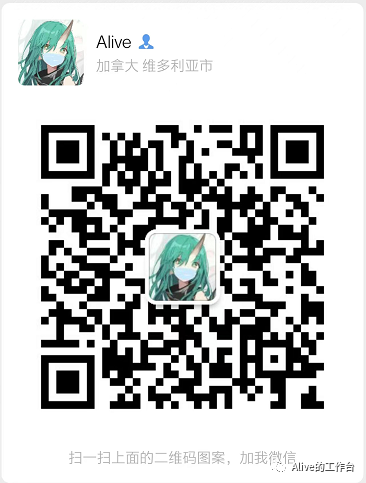
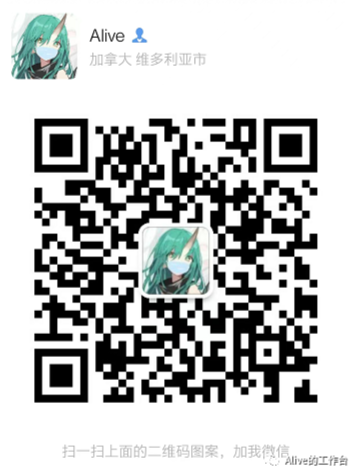
Update

diff --git a/app.vue b/app.vue
@@ -5,18 +5,49 @@
       <h3 class="font-bold text-lg">联系我</h3>
       <div class="max-w-5xl mx-auto">
         <p class="py-4">
-          You've been selected for a chance to get one year of subscription to
-          use Wikipedia for free!
+          <!-- You've been selected for a chance to get one year of subscription to
+          use Wikipedia for free! -->
         </p>
         <div class="flex flex-wrap max-w-5xl mx-auto">
           <div>
-            <img class="scale-75" src="~/assets/image/QR-Alive.png" alt="Alive的微信" />
+            <img class="scale-75 w-96 lg:w-64 " src="~/assets/image/QR-Alive.png" alt="Alive的微信" />
             <p class="text-center">Alive的微信</p>
           </div>
           <div>
-            <img class="scale-75" src="~/assets/image/QR-订阅号.jpg" alt="Alive的工作台" />
+            <img class="scale-75 w-96 lg:w-64" src="~/assets/image/QR-订阅号.jpg" alt="Alive的工作台" />
             <p class="text-center">公众号：Alive的工作台</p>
           </div>
+          <div>
+            <img class="scale-75 w-96 lg:w-64" src="~/assets/image/QR-Whatsapp.jpg" alt="Alive的工作台" />
+            <p class="text-center">公众号：Alive的工作台</p>
+          </div>
+          <div>
+            <img class="scale-75 w-96 lg:w-64" src="~/assets/image/QR-QQ.jpg" alt="Alive的工作台" />
+            <p class="text-center">公众号：Alive的工作台</p>
+          </div>
+        </div>
+        <div class="flex flex-wrap max-w-5xl mx-auto justify-center gap-10 my-10">
+          <!-- Outlook -->
+          <svg xmlns="http://www.w3.org/2000/svg" width="64" height="64" data-name="microsoft outlook" viewBox="0 0 64 64"><path fill="#0364b8" d="M57.191 3.999h-34.389a2.808 2.808 0 0 0 -2.803 2.808v3.192l19.38 6 20.62 -6V6.807a2.808 2.808 0 0 0 -2.808 -2.808Z" data-name="Path 94"/><path fill="#0a2767" d="M63.3 34.81a22.683 22.683 0 0 0 0.7 -2.809 1.332 1.332 0 0 0 -0.666 -1.152l-0.026 -0.016h-0.008l-21.676 -12.348a3.006 3.006 0 0 0 -3.249 0l-21.675 12.345h-0.008l-0.024 0.014a1.332 1.332 0 0 0 -0.667 1.156 22.689 22.689 0 0 0 0.7 2.809l22.984 16.811Z" data-name="Path 95"/><path fill="#28a8ea" d="M47.993 10H33.999l-4.041 6 4.041 6 13.994 11.998h12v-12Z" data-name="Path 96"/><path fill="#0078d4" d="M20 10h13.999v12h-13.999Z" data-name="Path 97"/><path fill="#50d9ff" d="M48 10h12v12h-12Z" data-name="Path 98"/><path fill="#0364b8" d="m48 33.999 -14.001 -12h-13.999v12l13.999 12 21.662 3.536Z" data-name="Path 99"/><path fill="none" d="M20.062 10h39.94" data-name="Path 100"/><path fill="#0078d4" d="M33.999 21.999h13.999v12h-13.999Z" data-name="Path 101"/><path fill="#064a8c" d="M20 33.999h13.999v12h-13.999Z" data-name="Path 102"/><path fill="#0078d4" d="M48 33.999h12v12h-12Z" data-name="Path 103"/><path fill="#0a2767" d="M40.38 50.435 16.798 33.235l0.99 -1.74L39.601 43.92a1.056 1.056 0 0 0 0.839 -0.024l21.865 -12.456 0.992 1.732Z" data-name="Path 104" opacity=".5"/><path fill="#1490df" d="m63.334 33.153 -0.028 0.016 -21.676 12.348a2.993 2.993 0 0 1 -2.92 0.181l7.543 10.13 16.508 3.591v0.008a2.996 2.996 0 0 0 1.24 -2.428V31.999a1.332 1.332 0 0 1 -0.666 1.154Z" data-name="Path 105"/><path d="M64 57v-1.476l-19.966 -11.373 -2.41 1.374a2.993 2.993 0 0 1 -2.92 0.181l7.548 10.119 16.508 3.593v0.008a2.996 2.996 0 0 0 1.24 -2.428Z" data-name="Path 106" opacity=".05"/><path d="m63.9 57.765 -21.882 -12.465 -0.39 0.219a2.993 2.993 0 0 1 -2.92 0.184l7.548 10.122 16.504 3.595v0.008a3.002 3.002 0 0 0 1.14 -1.66Z" data-name="Path 107" opacity=".1"/><path fill="#28a8ea" d="M16.7 33.18v-0.02h-0.023l-0.06 -0.041a1.3 1.3 0 0 1 -0.617 -1.12V56.999a2.996 2.996 0 0 0 3 3h41.999a3.006 3.006 0 0 0 0.741 -0.1 1.274 1.274 0 0 0 0.36 -0.12 0.284 0.284 0 0 0 0.12 -0.041 2.096 2.096 0 0 0 0.46 -0.26c0.041 -0.02 0.06 -0.02 0.08 -0.06Z" data-name="Path 108"/><path d="M36 49.336V16.665a2.674 2.674 0 0 0 -2.67 -2.666h-13.268v14.912l-3.362 1.916h-0.009l-0.024 0.014a1.332 1.332 0 0 0 -0.666 1.159v20h17.33a2.674 2.674 0 0 0 2.67 -2.663Z" data-name="Path 109" opacity=".1"/><path d="M34 51.337V18.666a2.674 2.674 0 0 0 -2.666 -2.666h-11.273v12.912l-3.362 1.916h-0.009l-0.024 0.014a1.332 1.332 0 0 0 -0.666 1.159v21.999h15.334a2.674 2.674 0 0 0 2.666 -2.663Z" data-name="Path 110" opacity=".2"/><path d="M34 47.334V18.666a2.674 2.674 0 0 0 -2.666 -2.666h-11.273v12.912l-3.362 1.916h-0.009l-0.024 0.014a1.332 1.332 0 0 0 -0.666 1.159V49.999h15.334a2.674 2.674 0 0 0 2.666 -2.666Z" data-name="Path 111" opacity=".2"/><path d="M32.001 47.334V18.666a2.674 2.674 0 0 0 -2.666 -2.666h-9.273v12.912l-3.362 1.916h-0.009l-0.024 0.014a1.332 1.332 0 0 0 -0.666 1.159V49.999h13.335a2.674 2.674 0 0 0 2.666 -2.666Z" data-name="Path 112" opacity=".2"/><path fill="#0078d4" d="M2.666 16h26.672a2.666 2.666 0 0 1 2.666 2.666v26.672a2.666 2.666 0 0 1 -2.666 2.666h-26.672A2.666 2.666 0 0 1 0 45.334V18.666a2.666 2.666 0 0 1 2.666 -2.666Z" data-name="Path 113"/><path fill="#fff" d="M7.733 26.936a8.362 8.362 0 0 1 3.285 -3.628 9.929 9.929 0 0 1 5.219 -1.309 9.234 9.234 0 0 1 4.825 1.24 8.28 8.28 0 0 1 3.197 3.466 11.194 11.194 0 0 1 1.12 5.1 11.802 11.802 0 0 1 -1.154 5.332 8.478 8.478 0 0 1 -3.29 3.588 9.6 9.6 0 0 1 -5.009 1.274 9.458 9.458 0 0 1 -4.936 -1.254 8.408 8.408 0 0 1 -3.236 -3.471 10.918 10.918 0 0 1 -1.135 -5.038 12.109 12.109 0 0 1 1.114 -5.299Zm3.5 8.516a5.432 5.432 0 0 0 1.847 2.387 4.823 4.823 0 0 0 2.887 0.871 5.066 5.066 0 0 0 3.081 -0.898 5.206 5.206 0 0 0 1.794 -2.394 9.253 9.253 0 0 0 0.571 -3.331 10.126 10.126 0 0 0 -0.542 -3.373 5.338 5.338 0 0 0 -1.732 -2.48 4.774 4.774 0 0 0 -3.054 -0.948 4.986 4.986 0 0 0 -2.954 0.877 5.482 5.482 0 0 0 -1.887 2.406 9.552 9.552 0 0 0 -0.014 6.88Z" data-name="Path 114"/><path fill="none" d="M0 0h64v64H0Z" data-name="Path 115"/></svg>
+          <!-- Upworks: https://www.svgviewer.dev/s/34708/upwork -->
+          <svg width="64px" height="64px" viewBox="0 0 64 64" xmlns="http://www.w3.org/2000/svg">
+            <path cx="512" cy="512" r="512" style="fill:#14a800"
+              d="M64 32A32 32 0 0 1 32 64A32 32 0 0 1 0 32A32 32 0 0 1 64 32z" />
+            <path
+              d="M22.641 34.031c-1.156 0 -1.921 -0.875 -2.134 -1.214 0.274 -2.146 1.075 -2.824 2.134 -2.824C23.688 29.992 24.5 30.813 24.5 32.012s-0.813 2.019 -1.859 2.019zm0 -5.356c-1.884 0 -2.938 1.203 -3.242 2.441 -0.343 -0.631 -0.596 -1.475 -0.793 -2.26H16v3.174c0 1.151 -0.536 2.003 -1.583 2.003s-1.647 -0.852 -1.647 -2.003l0.012 -3.174h-1.5v3.174c0 0.927 0.306 1.767 0.866 2.366 0.576 0.619 1.361 0.943 2.271 0.943 1.813 0 3.077 -1.361 3.077 -3.309v-2.133c0.188 0.702 0.64 2.051 1.5 3.234L18.191 37.625h1.526l0.531 -3.183a4.174 4.174 0 0 0 0.556 0.383 3.447 3.447 0 0 0 1.699 0.512s0.092 0.004 0.141 0.004c1.869 0 3.354 -1.416 3.354 -3.329s-1.489 -3.337 -3.358 -3.337zm21.581 0.859v-0.678H42.75v6.282h1.494v-2.461c0 -1.514 0.141 -2.603 2.215 -2.461v-1.438c-0.968 -0.069 -1.721 0.128 -2.237 0.755zm-10.375 -0.678L32.766 33.25l-1.156 -4.393h-1.901L28.55 33.25l-1.079 -4.393H25.956l1.659 6.286h1.796l1.25 -4.464 1.236 4.464h1.796l1.756 -6.286zm4.889 5.178c-1.063 0 -1.861 -0.82 -1.861 -2.023s0.801 -2.019 1.861 -2.019c1.047 0 1.861 0.82 1.861 2.019s-0.811 2.023 -1.858 2.023zm0 -5.359c-1.881 0 -3.354 1.427 -3.354 3.336s1.474 3.324 3.354 3.324c1.869 0 3.354 -1.416 3.354 -3.324s-1.479 -3.336 -3.352 -3.336zm9.861 3.375h0.346l2.086 3.092h1.688l-2.4 -3.427c1.164 -0.446 1.945 -1.609 1.945 -2.859h-1.488c0 1.357 -1.091 1.869 -2.174 1.869V26.375h-1.5v8.768h1.494z"
+              style="fill:#fff" />
+          </svg>
+          <!-- Instagram: https://www.svgviewer.dev/s/63728/instagram -->
+          <svg version="1.1" id="Layer_1" xmlns="http://www.w3.org/2000/svg" xmlns:xlink="http://www.w3.org/1999/xlink" x="0px" y="0px" viewBox="0 0 64 64" style="enable-background:new 0 0 512 512;" xml:space="preserve" width="64" height="64"><path style="fill:#FDE494;" d="M14.345 64h7.638l-12.052 -7.724L0.025 50.487C0.457 58.011 6.715 64 14.345 64z"/><path style="fill:#FEA150;" d="M41.931 59.586l-8.626 -2.207H14.345c-4.259 0 -7.724 -3.465 -7.724 -7.724v-4.234l-3.31 -3.553L0 42.453v7.202c0 0.28 0.009 0.557 0.025 0.832L21.983 64h26.096L41.931 59.586z"/><path style="fill:#FF5D4A;" d="M55.207 55.017c-1.405 1.455 -3.374 2.362 -5.552 2.362H33.305L48.079 64h1.577c5.15 0 9.675 -2.729 12.205 -6.816l-3.378 -2.012L55.207 55.017z"/><path style="fill:#E45261;" d="M57.379 40.752v8.903c0 2.082 -0.829 3.972 -2.172 5.362l6.653 2.167C63.216 54.994 64 52.415 64 49.655v-7.851l-3.425 -1.924L57.379 40.752z"/><path style="fill:#FF4D95;" points="512,149.19 483.797,142.474 459.034,157.3 459.034,326.014 512,334.436 " d="M64 18.649L60.475 17.809L57.379 19.663L57.379 40.752L64 41.804Z"/><path style="fill:#CB319C;" d="M64 14.345c0 -7.204 -5.338 -13.184 -12.267 -14.194L43.054 3.763l-4.398 2.858h10.999c4.259 0 7.724 3.465 7.724 7.724V19.663L64 18.649V14.345z"/><path style="fill:#8A3293;" d="M39.717 0l-8.21 3.079l-6.476 3.541h13.625L51.733 0.151C51.054 0.052 50.361 0 49.655 0H39.717z"/><path style="fill:#FF5D4A;" d="M32 50.759c2.295 0 4.494 -0.415 6.528 -1.173l-10.752 -4.881l-11.397 -2.332C19.743 47.424 25.489 50.759 32 50.759z"/><path style="fill:#E45261;" d="M41.144 38.17c-1.985 2.933 -5.343 4.865 -9.144 4.865c-5.034 0 -9.289 -3.39 -10.608 -8.006l-2.96 -1.85l-5.106 0.567c0.294 3.168 1.377 6.111 3.053 8.627l22.15 7.213c4.788 -1.783 8.655 -5.47 10.682 -10.133l-3.969 -2.011L41.144 38.17z"/><g><path style="fill:#FF4D95;" d="M20.965 32c0 -2.735 1.002 -5.238 2.656 -7.168l-4.707 -0.658l-4.781 2.111c-0.578 1.803 -0.891 3.723 -0.891 5.715c0 0.589 0.03 1.171 0.084 1.746l8.066 1.283C21.116 34.066 20.965 33.05 20.965 32z"/><path style="fill:#FF4D95;" d="M50.759 32c0 -4.017 -1.27 -7.743 -3.429 -10.799l-4.675 -0.663l-4.802 2.115c3.109 1.954 5.181 5.412 5.181 9.348c0 2.284 -0.698 4.408 -1.89 6.17l8.066 1.283C50.204 37.167 50.759 34.648 50.759 32z"/></g><g><path style="fill:#CB319C;" d="M32 20.965c2.149 0 4.155 0.62 5.853 1.687l9.477 -1.451c-3.4 -4.812 -9.004 -7.96 -15.33 -7.96c-8.351 0 -15.444 5.486 -17.867 13.043l9.489 -1.453C25.647 22.468 28.65 20.965 32 20.965z"/><path style="fill:#CB319C;" d="M49.655 18.759c2.434 0 4.414 -1.98 4.414 -4.414s-1.98 -4.414 -4.414 -4.414c-2.434 0 -4.414 1.98 -4.414 4.414S47.221 18.759 49.655 18.759z"/></g><path style="fill:#FF5D4A;" points="52.966,313.564 27.47,300.847 0,296.316 0,339.629 52.966,363.366 " d="M6.621 39.196L3.434 37.606L0 37.039L0 42.454L6.621 45.421Z"/><path style="fill:#E45261;" points="0,253.014 0,296.316 52.966,313.564 52.966,261.437 25.446,251.543 " d="M0 31.627L0 37.039L6.621 39.196L6.621 32.68L3.181 31.443Z"/><path style="fill:#FF4D95;" points="52.966,219.479 25.749,219.233 0,227.59 0,253.014 52.966,261.437 " d="M6.621 27.435L3.219 27.404L0 28.449L0 31.627L6.621 32.68Z"/><path style="fill:#CB319C;" points="52.966,179.757 24.911,182.603 0,205.962 0,227.59 52.966,219.479 " d="M6.621 22.47L3.114 22.825L0 25.745L0 28.449L6.621 27.435Z"/><path style="fill:#8A3293;" points="0,205.962 52.966,179.757 52.966,119.362 21.9,122.333 0,143.241 " d="M0 25.745L6.621 22.47L6.621 14.92L2.737 15.292L0 17.905Z"/><path style="fill:#523494;" d="M25.632 0L10.526 5.81L0.173 12.116C0.06 12.843 0 13.587 0 14.345v3.56l6.621 -2.985v-0.576c0 -4.259 3.465 -7.724 7.724 -7.724h10.686L39.717 0H25.632z"/><path style="fill:#2D2D87;" d="M14.345 0C7.193 0 1.247 5.261 0.173 12.116L25.632 0H14.345z"/></svg>
+          <!-- GitHub: https://www.svgviewer.dev/s/13945/github-icon -->
+          <svg width="64px" height="64px" viewBox="0 -0.75 64 64" version="1.1" xmlns="http://www.w3.org/2000/svg"
+            xmlns:xlink="http://www.w3.org/1999/xlink" preserveAspectRatio="xMidYMid">
+            <g>
+              <path
+                d="M32 0C14.329 0 0 14.327 0 32C0 46.139 9.169 58.134 21.884 62.365C23.483 62.661 24.07 61.671 24.07 60.826C24.07 60.063 24.04 57.542 24.027 54.868C15.124 56.804 13.246 51.092 13.246 51.092C11.79 47.394 9.693 46.41 9.693 46.41C6.789 44.424 9.911 44.465 9.911 44.465C13.125 44.691 14.817 47.762 14.817 47.762C17.671 52.655 22.303 51.24 24.129 50.423C24.416 48.354 25.245 46.943 26.161 46.144C19.053 45.334 11.581 42.591 11.581 30.329C11.581 26.835 12.831 23.981 14.878 21.74C14.546 20.934 13.451 17.679 15.188 13.271C15.188 13.271 17.875 12.411 23.991 16.551C26.543 15.842 29.281 15.487 32 15.474C34.72 15.487 37.459 15.842 40.017 16.551C46.125 12.411 48.808 13.271 48.808 13.271C50.55 17.679 49.454 20.934 49.122 21.74C51.174 23.981 52.415 26.835 52.415 30.329C52.415 42.62 44.929 45.326 37.803 46.118C38.951 47.111 39.974 49.059 39.974 52.044C39.974 56.326 39.937 59.772 39.937 60.826C39.937 61.677 40.513 62.675 42.135 62.361C54.843 58.125 64 46.134 64 32C64 14.327 49.673 0 32 0ZM11.985 45.585C11.915 45.744 11.665 45.792 11.437 45.683C11.205 45.578 11.074 45.361 11.149 45.202C11.218 45.038 11.469 44.993 11.701 45.102C11.933 45.207 12.066 45.426 11.985 45.585ZM13.559 46.99C13.407 47.131 13.108 47.065 12.906 46.842C12.697 46.619 12.657 46.32 12.812 46.177C12.969 46.035 13.259 46.101 13.469 46.325C13.678 46.55 13.719 46.846 13.559 46.99ZM14.639 48.787C14.443 48.923 14.122 48.795 13.924 48.511C13.728 48.226 13.728 47.885 13.928 47.748C14.127 47.611 14.443 47.734 14.644 48.017C14.839 48.306 14.839 48.647 14.639 48.787ZM16.465 50.868C16.29 51.061 15.916 51.009 15.643 50.745C15.363 50.487 15.285 50.121 15.461 49.928C15.639 49.734 16.014 49.788 16.29 50.05C16.568 50.308 16.652 50.676 16.465 50.868ZM18.826 51.57C18.748 51.821 18.388 51.935 18.026 51.828C17.664 51.719 17.427 51.425 17.5 51.172C17.576 50.92 17.937 50.801 18.302 50.915C18.663 51.024 18.901 51.315 18.826 51.57ZM21.512 51.868C21.521 52.132 21.213 52.351 20.833 52.356C20.45 52.364 20.141 52.151 20.137 51.891C20.137 51.625 20.437 51.408 20.82 51.402C21.2 51.394 21.512 51.606 21.512 51.868ZM24.151 51.767C24.196 52.025 23.932 52.289 23.554 52.36C23.182 52.428 22.838 52.269 22.791 52.013C22.745 51.749 23.014 51.485 23.385 51.416C23.764 51.351 24.102 51.505 24.151 51.767Z"
+                fill="#161614" />
+            </g>
+          </svg>
         </div>
         <div class="modal-action">
           <label @click="modal = false" class="btn">Yay!</label>
